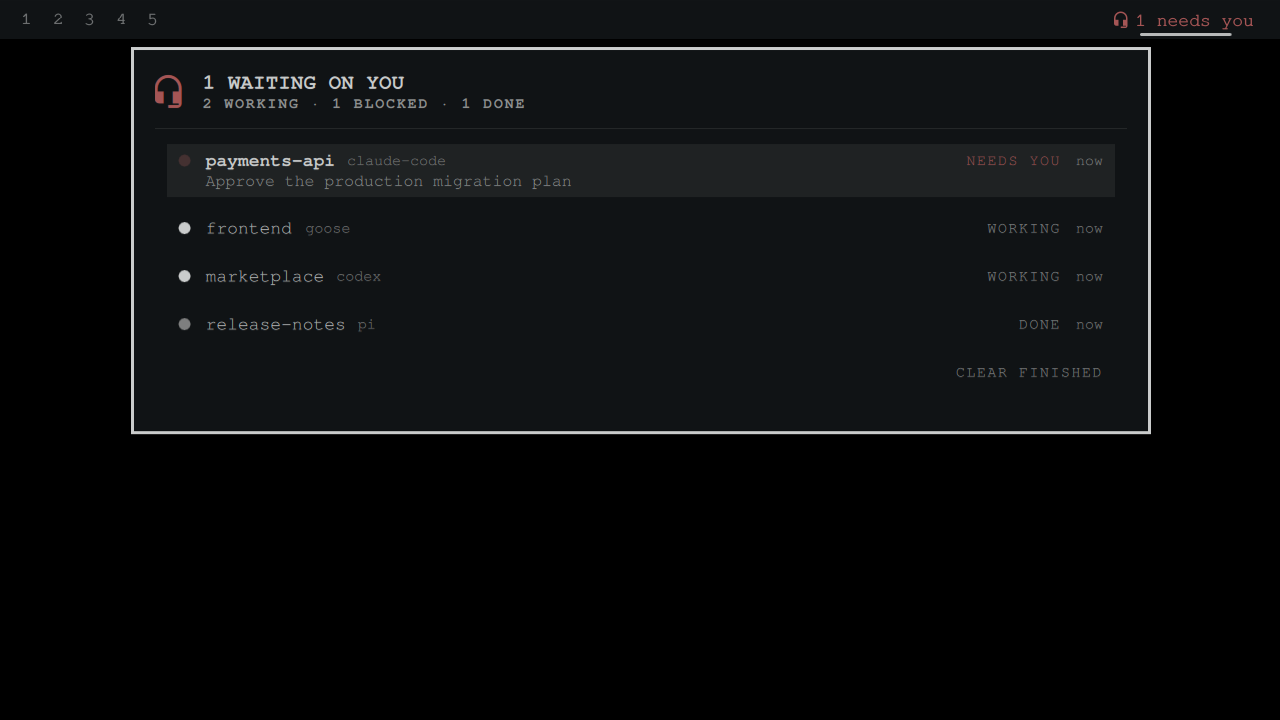
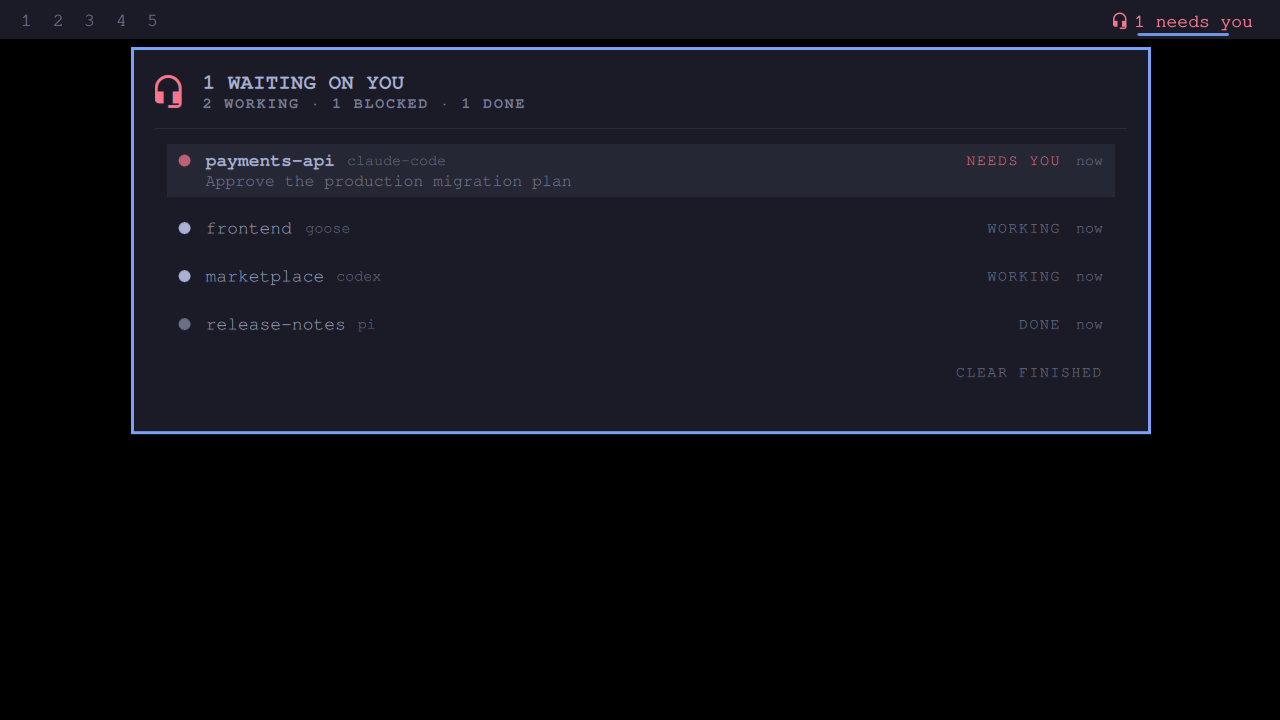
fix(focus): literal contains-match title fallback, and pre-filing fixes for 1.2.0 (#17)
* fix(focus): make the title fallback a literal contains-match; fix shipped doc claims

From the omarchy-submission-auditor review of 1.2.0 (92fca90):

- Hyprland matches a `title:` selector as a regular expression against the
  WHOLE window title (RE2 FullMatch in v0.57.2,
  src/desktop/state/ViewQuery.cpp), so `title:crew-chief` matched only a
  window titled exactly that, and a project named "c++" was not a valid
  pattern. Model.titleSelector now escapes the name and wraps it in .*,
  so any title containing the project folder name matches, literally.
- tests/TESTING.md said five rig scenarios; there are nine.
- README and SECURITY named `herdr status --json`; the adapter runs
  `herdr agent list`.
- README now lists perl, hyprctl and timeout as dependencies, and its
  hook and adapter line counts match the files.

From the coverage report: the audit's markdownlint gate ran `markdownlint .`
over node_modules. A repo .markdownlint.json and .markdownlintignore encode
the project's real conventions (one-line changelog entries, Keep a
Changelog sibling headings, the centred README banner), and the remaining
repo findings (four trailing blank lines, a bare email) are fixed. With
osv-scanner and markdownlint installed, `audit-harness scan` is 5 PASS,
0 ADVISORY, 0 FAIL; osv-scanner found no issues in 203 packages.

The rig harness now builds its expected attempts from the shipped Model
and prints the sha256 of the FocusChain.qml and Model.js it tested.
[…]

diff --git a/tests/model.test.js b/tests/model.test.js
@@ -263,9 +263,9 @@ function luaDecode(literal) {
 }
 
 test("focusSelectors prefers the recorded window, then the title, then nothing", () => {
-  assert.deepEqual(Model.focusSelectors({ window: "0xabc123", project: "repo" }), ["address:0xabc123", "title:repo"])
-  assert.deepEqual(Model.focusSelectors({ window: "", project: "repo" }), ["title:repo"])
-  assert.deepEqual(Model.focusSelectors({ window: "not-an-address", project: "repo" }), ["title:repo"])
+  assert.deepEqual(Model.focusSelectors({ window: "0xabc123", project: "repo" }), ["address:0xabc123", "title:.*repo.*"])
+  assert.deepEqual(Model.focusSelectors({ window: "", project: "repo" }), ["title:.*repo.*"])
+  assert.deepEqual(Model.focusSelectors({ window: "not-an-address", project: "repo" }), ["title:.*repo.*"])
   assert.deepEqual(Model.focusSelectors({ window: "0xabc123", project: "" }), ["address:0xabc123"])
   assert.deepEqual(Model.focusSelectors({ window: "", project: "bad\nselector" }), [])
   assert.deepEqual(Model.focusSelectors(null), [])
@@ -282,8 +282,8 @@ test("focusAttempts tries each selector in Lua form, then classic form", () => {
   assert.deepEqual(Model.focusAttempts({ window: "0xabc", project: "web" }), [
     ["hyprctl", "dispatch", 'hl.dsp.focus({ window = "address:0xabc" })'],
     ["hyprctl", "dispatch", "focuswindow", "address:0xabc"],
-    ["hyprctl", "dispatch", 'hl.dsp.focus({ window = "title:web" })'],
-    ["hyprctl", "dispatch", "focuswindow", "title:web"]
+    ["hyprctl", "dispatch", 'hl.dsp.focus({ window = "title:.\\042web.\\042" })'],
+    ["hyprctl", "dispatch", "focuswindow", "title:.*web.*"]
   ])
   assert.deepEqual(Model.focusAttempts({ window: "", project: "" }), [])
 })
@@ -339,5 +339,18 @@ test("the panel's live and sorted lists keep each session's window", () => {
   ].join("\n"))
   const shown = Model.sortSessions(Model.liveSessions(rows, NOW, 60000))
   assert.deepEqual(shown.map((r) => [r.id, r.window]), [["a", "0xa1"], ["b", "0xb2"]])
-  assert.deepEqual(Model.focusSelectors(shown[0]), ["address:0xa1", "title:a"])
+  assert.deepEqual(Model.focusSelectors(shown[0]), ["address:0xa1", "title:.*a.*"])
+})
+
+test("titleSelector matches any title containing the project, read literally", () => {
+  assert.equal(Model.titleSelector("crew-chief"), "title:.*crew-chief.*")
+  assert.equal(Model.titleSelector("c++ (beta)"), "title:.*c\\+\\+ \\(beta\\).*")
+  assert.equal(Model.titleSelector("a.b|c^$?*[x]{y}\\z"), "title:.*a\\.b\\|c\\^\\$\\?\\*\\[x\\]\\{y\\}\\\\z.*")
+  assert.equal(Model.titleSelector(""), "")
+  assert.equal(Model.titleSelector("bad\nname"), "")
+  // The escaped name is a valid pattern that matches a title containing it
+  // literally (JS RegExp stands in for RE2 here; both accept these escapes).
+  const body = Model.titleSelector("c++ (beta)").slice("title:".length)
+  assert.match("jeremy@box: ~/src/c++ (beta)", new RegExp("^" + body + "$"))
+  assert.doesNotMatch("jeremy@box: ~/src/cxx (beta)", new RegExp("^" + body + "$"))
 })

diff --git a/Model.js b/Model.js
@@ -161,6 +161,18 @@ function windowAddress(value) {
   return /^0x[0-9a-fA-F]{1,16}$/.test(value) ? value : ""
 }
 
+// A title selector for one project, or "". Hyprland matches `title:` as a
+// regular expression against the WHOLE window title (RE2 FullMatch in 0.57.2,
+// src/desktop/state/ViewQuery.cpp), so a bare name only matched a window titled
+// exactly that, and a name like "c++" was not even a valid pattern. The name is
+// escaped so it is read literally, and wrapped in .* so any title that
+// contains it matches.
+function titleSelector(project) {
+  var target = focusTarget(project)
+  if (!target) return ""
+  return "title:.*" + target.replace(/[\\.^$|?*+()[\]{}]/g, "\\$&") + ".*"
+}
+
 // Window selectors to try for one session, best first. The address the
 // session's own reporter recorded names the exact terminal window. The title
 // match is the fallback for reporters that could not see a window, and it only
@@ -171,8 +183,8 @@ function focusSelectors(session) {
   var out = []
   var address = windowAddress(session.window)
   if (address) out.push("address:" + address)
-  var target = focusTarget(session.project)
-  if (target) out.push("title:" + target)
+  var title = titleSelector(session.project)
+  if (title) out.push(title)
   return out
 }
 
@@ -311,6 +323,7 @@ if (typeof module !== "undefined") {
     projectName: projectName,
     focusTarget: focusTarget,
     windowAddress: windowAddress,
+    titleSelector: titleSelector,
     focusSelectors: focusSelectors,
     luaString: luaString,
     focusArgv: focusArgv,

diff --git a/tests/hook.test.js b/tests/hook.test.js
@@ -276,8 +276,8 @@ test("a recorded window survives the panel's real read path", (t) => {
   const Model = require("../Model.js")
   const byId = Object.fromEntries(Model.parseSpool(out).map((s) => [s.id, s]))
   assert.equal(byId.rp1.window, "0x5a5a1")
-  assert.deepEqual(Model.focusSelectors(byId.rp1), ["address:0x5a5a1", "title:web"])
-  assert.deepEqual(Model.focusSelectors(byId.rp2), ["title:api"])
+  assert.deepEqual(Model.focusSelectors(byId.rp1), ["address:0x5a5a1", "title:.*web.*"])
+  assert.deepEqual(Model.focusSelectors(byId.rp2), ["title:.*api.*"])
 })
 
 test("reporter refuses --window without a value instead of crashing", (t) => {

diff --git a/tests/mutation-contract.test.js b/tests/mutation-contract.test.js
@@ -34,5 +34,5 @@ test("the public Crew Chief model has a deterministic behavioral signature", () 
     focusResults: ["ok\n", "No such window found", ""].map(Model.focusSucceeded)
   }
   const digest = crypto.createHash("sha256").update(JSON.stringify(signature)).digest("hex")
[2 lines of base64/hex data omitted]
 })

diff --git a/README.md b/README.md
@@ -28,7 +28,7 @@ in. Three integration tiers:
 
 | Harness | Integration | States you get |
 | --- | --- | --- |
-| **Anything running under [Herdr](https://herdr.dev)**, whose detection roster covers Claude Code, Codex, Amp, Cline, Copilot, and more | **zero config**: when `herdr` is installed, the widget consumes one bounded `herdr status --json` snapshot per poll (`herdrSync` setting, default On, harmless no-op without it) | working / needs you (blocked) / done, with the pane title as context |
+| **Anything running under [Herdr](https://herdr.dev)**, whose detection roster covers Claude Code, Codex, Amp, Cline, Copilot, and more | **zero config**: when `herdr` is installed, the widget consumes one bounded `herdr agent list` snapshot per poll (`herdrSync` setting, default On, harmless no-op without it) | working / needs you (blocked) / done, with the pane title as context |
 | **Claude Code** (standalone) | first-class hook adapter, one-command install (below) | working / needs you / done, with a bounded attention headline |
 | **OpenAI Codex** (standalone) | `adapters/codex-notify` wired into `notify` in `~/.codex/config.toml` | done (turn complete) |
 | **Goose, Kilo, pi, Hermes, aider, opencode, anything** | call `bin/crew-chief-report` from whatever event surface your tool has: hooks, notify programs, wrappers, extensions | whatever you report |
@@ -49,7 +49,7 @@ crew-chief-report end
 ```
 
 If your favorite harness has a native event surface you'd like a first-class adapter
-for, open an issue. Adapters are ~40 lines of bash.
+for, open an issue. Adapters are 25 to 55 lines of bash.
 
 ## Install
 
@@ -81,7 +81,7 @@ For everything else, call `bin/crew-chief-report` from your tool's event hooks. 
 ## How it works (Claude Code adapter)
 
 Claude Code fires [hook events](https://code.claude.com/docs/en/hooks) at lifecycle
-moments. The installed hook (`hooks/crew-chief-event`, ~40 lines of bash + jq) writes one
+moments. The installed hook (`hooks/crew-chief-event`, about 70 lines of bash + jq) writes one
 tiny JSON state file per session under `~/.local/state/omarchy/crew-chief/`:
 
 | Claude Code event | Session state |
@@ -108,14 +108,15 @@ candidate names, opens only regular same-owner files without following links, re
 - **Left-click a row**: try to focus the terminal window the session reported
   from. This is best effort. The reporter records which Hyprland window it is running in, and the
   click focuses that window by address. When no window was recorded, or it has
-  closed, the click falls back to matching the project name in the window
-  title. Each attempt uses Hyprland's Lua dispatch form first (Hyprland 0.57
+  closed, the click falls back to any window whose title contains the project
+  folder name, matched literally. Each attempt uses Hyprland's Lua dispatch form first (Hyprland 0.57
   and current Omarchy), then the classic `focuswindow` form for older
   releases. When every attempt is refused, the panel header says so for a few
   seconds.
   - The window can't be recorded inside tmux or zellij, or in a terminal that
     runs every window from one process, such as `foot --server`, kitty in
-    single-instance mode or WezTerm. Those sessions use the title match.
+    single-instance mode or WezTerm. Those sessions use the title match, which
+    works only while the terminal title contains the project folder name.
 - **Right-click a row**: dismiss it from the list.
 - **CLEAR FINISHED**: sweep away all `DONE` rows at once.
 - Stale sessions (no event for 4h, configurable) drop off automatically.
@@ -142,6 +143,10 @@ To unwire the hook, restore the backup the installer made
 ## Dependencies
 
 - `jq` (ships with Omarchy), used by the hook scripts and reporter.
+- `perl` with its core modules, for the spool helper (`bin/crew-chief-spool`). It
+  is on a stock Omarchy install, where first-party scripts use it too.
+- `hyprctl` (ships with Hyprland), to record and focus a session's window, and
+  coreutils `timeout`, which bounds every `hyprctl` call.
 - At least one agent harness to watch: [Claude Code](https://code.claude.com) (hooks,
   any 2025+ release), [Codex CLI](https://github.com/openai/codex) (`notify`), or
   anything that can invoke `crew-chief-report`.

diff --git a/tests/TESTING.md b/tests/TESTING.md
@@ -9,7 +9,7 @@ Crew Chief uses a seven-layer fail-closed test model.
 | Unit | Model parsing, normalization, bounds, ordering, labels, ages, and keyboard/accessibility contracts |
 | Integration | Real hooks, reporters, installer, Herdr adapter, and descriptor-bound spool helper against temporary homes |
 | System | `rig-verify.sh` runs the upstream validator and `qmllint` inside Buzz production |
-| System | `rig-focus-chain.sh` loads the shipped `FocusChain.qml` in a real Quickshell on the rig and drives five click scenarios against a stand-in `hyprctl`, checking every attempt launched and every notice. No live Hyprland: its headless backend needs a render node the rig lacks |
+| System | `rig-focus-chain.sh` loads the shipped `FocusChain.qml` in a real Quickshell on the rig and drives nine click scenarios against a stand-in `hyprctl`, checking every attempt launched and every notice. No live Hyprland: its headless backend needs a render node the rig lacks |
 | E2E | `e2e/buzz.sh` installs the runtime in an isolated real shell, seeds records through unchanged production reporters/hooks, opens the panel by IPC, and captures the full frame |
 | Acceptance | C43 requires two exact 500-character descriptions, a themed banner, a hash-bound render receipt, and explicit approval of the exact preview SHA |
 

diff --git a/SECURITY.md b/SECURITY.md
@@ -48,7 +48,7 @@ surrogates, which have no byte form, are dropped.
 - No network access, account, API key, cookies, or telemetry.
 - Reads and writes only the private spool under
   `${XDG_STATE_HOME:-~/.local/state}/omarchy/crew-chief/`.
-- Optionally reads one bounded `herdr status --json` snapshot through the
+- Optionally reads one bounded `herdr agent list` snapshot through the
   bundled adapter.
 - Optionally invokes `hyprctl dispatch` when the user activates a row: first
   Hyprland's Lua form, `hl.dsp.focus({ window = "<selector>" })`, then the
@@ -60,4 +60,4 @@ surrogates, which have no byte form, are dropped.
 - The Claude Code hook installer changes only `~/.claude/settings.json`, makes
   a backup, is idempotent, and runs only when the user explicitly invokes it.
 
-Report a concern through a GitHub issue or email jeremy@intentsolutions.io.
+Report a concern through a GitHub issue or email <jeremy@intentsolutions.io>.

diff --git a/CHANGELOG.md b/CHANGELOG.md
@@ -14,6 +14,8 @@ Regenerate with `scripts/gen-changelog.sh`.
 
 ### Fixed
 
+- Match the title fallback against any window title that contains the project folder name, read literally. Hyprland matches a `title:` selector as a regular expression against the whole title, so the bare name only matched a window titled exactly that.
+- Name the command the Herdr adapter runs (`herdr agent list`) in README and SECURITY, and list `perl`, `hyprctl` and `timeout` as dependencies.
 - Qualify Omarchy's palette as `Commons.Color`, as the shell contract requires now that Qt 6.12 has its own `Color` type.
 - Target the session's own terminal window on a row click, recorded by the reporter, before falling back to a title match that Claude Code's task titles defeat (#7).
 - Say in the panel header when every focus attempt is refused, times out, or cannot start hyprctl, instead of staying silent.

diff --git a/tests/RTM.md b/tests/RTM.md
@@ -9,4 +9,3 @@
 | Operate without network, accounts, or telemetry | local reporters/adapters only | security contract and gate C38 |
 | Work by mouse and keyboard | `PanelKeyCatcher`, row/clear controls | accessibility contract and Buzz render |
 | Tell the marketplace a complete, specific story | exact descriptions, banner, preview receipts | contract test and gate C43 |
-

diff --git a/tests/JOURNEYS.md b/tests/JOURNEYS.md
@@ -19,4 +19,3 @@ FIFO, oversized record, directory flood, and concurrent publication. Every
 operation finishes within its bound; external targets remain unchanged; the
 reader returns only complete same-owner regular JSON records and discloses a
 partial fleet.
-

diff --git a/contracts/spool-protocol.md b/contracts/spool-protocol.md
@@ -23,4 +23,3 @@ so the UI can disclose a partial fleet.
 All state lifecycle operations are descriptor-bound and serialized. Consumers
 must preserve those boundaries rather than replacing the helper with direct
 `cat`, `find`, `sort`, or `rm` calls.
-

diff --git a/tests/PERSONAS.md b/tests/PERSONAS.md
@@ -14,4 +14,3 @@ Tab, refresh, focus, dismiss, and clear actions to have stable behavior.
 
 Needs lifecycle metadata to remain local, bounded, inspectable, and explicit
 about the fact that reporter-supplied messages persist on disk.
-
